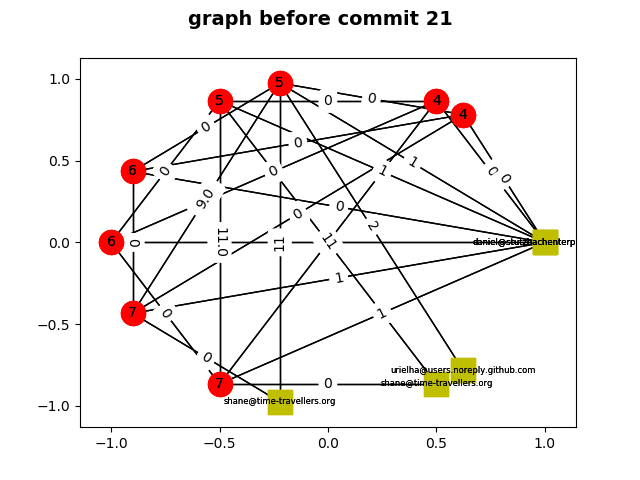
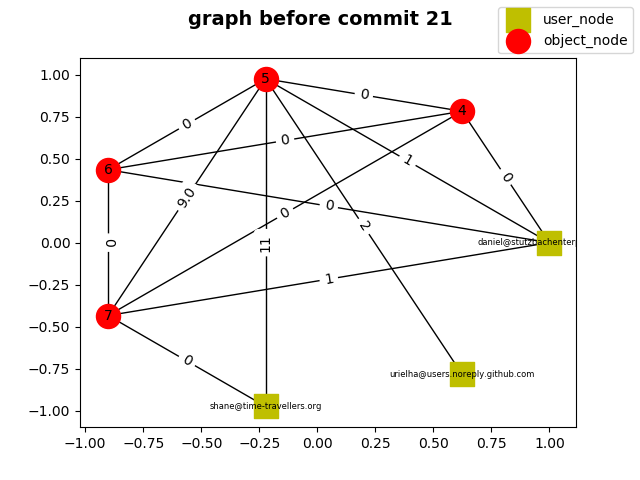
clear

diff --git a/src/MIP.py b/src/MIP.py
@@ -19,8 +19,10 @@ GAMMA = 0.2
 BETA = 0.6
 ALPHA = 0.2
 
+
 class TooManyActionsError(Exception):
     pass
+
 
 class Mip:
     """
@@ -205,17 +207,15 @@ class Mip:
         userLsize = 6
         objLsize = 10
         layout = nx.circular_layout(self.mip)  # pick graph layout
-
-
         nx.draw_networkx_nodes(self.mip, pos=layout, nodelist=self.nodeIDsToUsersIds.keys(),
-            node_color=userNcolor, node_shape=userNshape)
+            node_color=userNcolor, node_shape=userNshape, label='user_node')
         nx.draw_networkx_nodes(self.mip, pos=layout, nodelist=self.nodeIDsToObjectsIds.keys(),
-            node_color=objNcolor, node_shape=objNshape)
-        nx.draw_networkx_labels(self.mip,layout,labels=self.nodeIDsToUsersIds, font_size=userLsize)
+            node_color=objNcolor, node_shape=objNshape, label='object_node')
+        nx.draw_networkx_labels(self.mip, layout, labels=self.nodeIDsToUsersIds, font_size=userLsize)
         nx.draw_networkx_labels(self.mip, layout, labels=self.nodeIDsToObjectsIds, font_size=objLsize)
-        labels = {(edge[0],edge[1]): edge[2]['weight'] for edge in self.mip.edges(data=True)}
+        labels = {(edge[0], edge[1]): edge[2]['weight'] for edge in self.mip.edges(data=True)}
         nx.draw_networkx_edges(self.mip, pos=layout)
-        nx.draw_networkx_edge_labels(self.mip, pos=layout, edge_labels=labels)
+        nx.draw_networkx_edge_labels(self.mip, pos=layout, edge_labels=labels, label='edge_weight')
 
     def __str__(self):
         return f"MIP_{self.alpha}_{self.beta}_{self.gamma}_{self.userDecay}_{self.objectDecay}"

diff --git a/src/Mocks/initialize.py b/src/Mocks/initialize.py
@@ -13,12 +13,14 @@ if __name__ == "__main__":
     csr = CsrFiles()
     p = Provider(0.8, repo)
     result_folder = path.join(RESULTS_DIR,repo.split('/')[-1])
-    mkdir(result_folder)
+    if not path.exists(result_folder):
+        mkdir(result_folder)
 
     for i, commit in enumerate(p.X):
         mip.updateMIP(csr.commit_to_session(commit))
 
     for j, commit in enumerate(p.Y, i):
+        plt.figure(clear=True)
         mip.drawMip()
         plt.suptitle(f"graph before commit {j}", fontsize=14, fontweight='bold')
 
@@ -40,5 +42,6 @@ if __name__ == "__main__":
         top_10 = sum(pred_hits[:10]) if len(pred_hits) >= 10 else -1
         top_5 = sum(pred_hits[:5]) if len(pred_hits) >= 5 else -1
         top_3 = sum(pred_hits[:3]) if len(pred_hits) >= 3 else -1
+        plt.figlegend()
         plt.savefig(path.join(result_folder, str(j)))
         mip.updateMIP(session)
